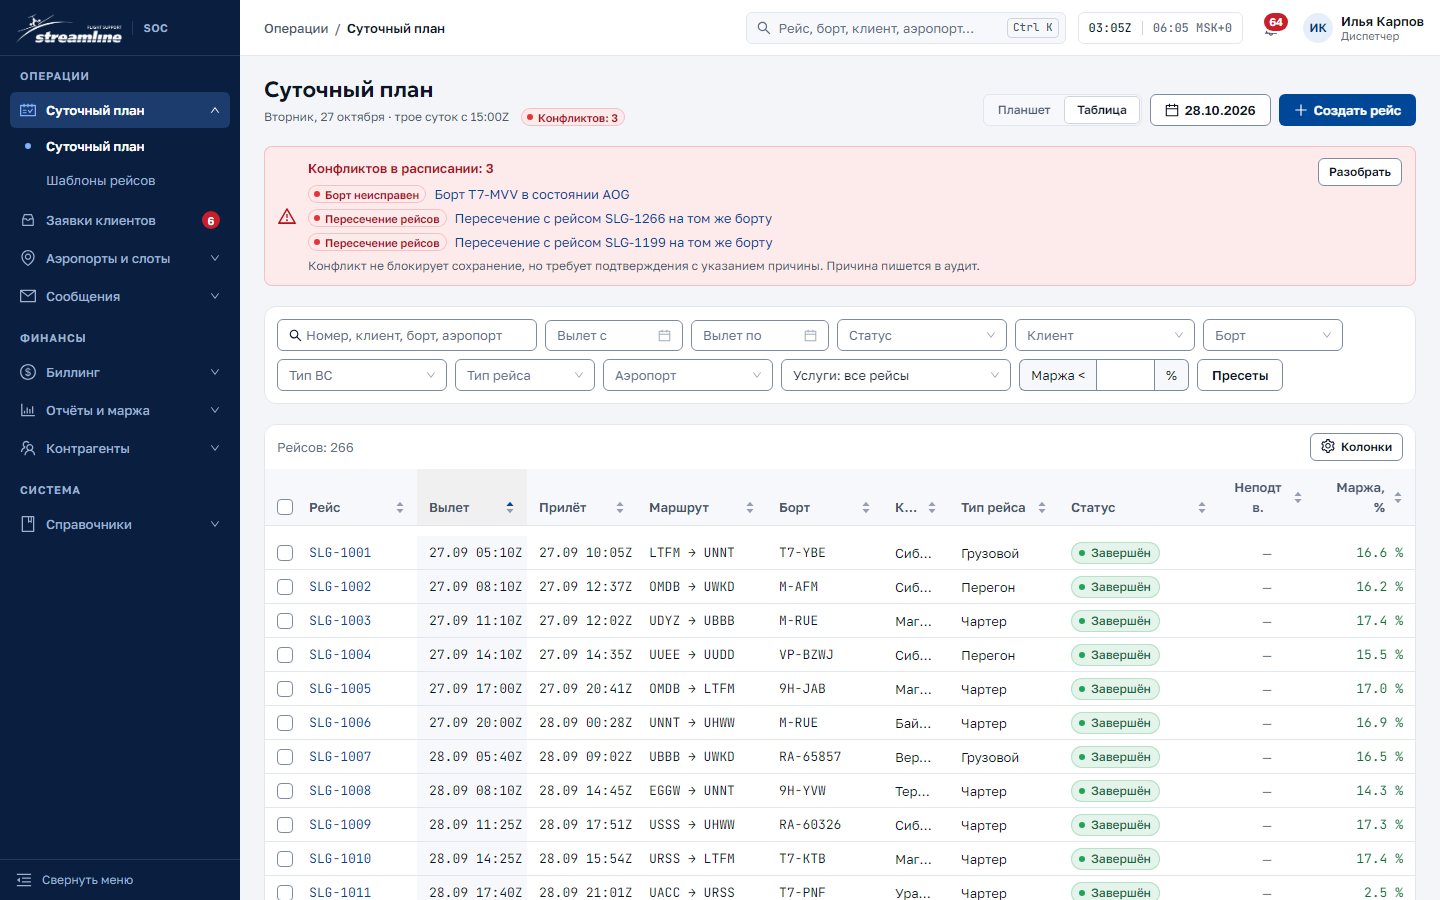
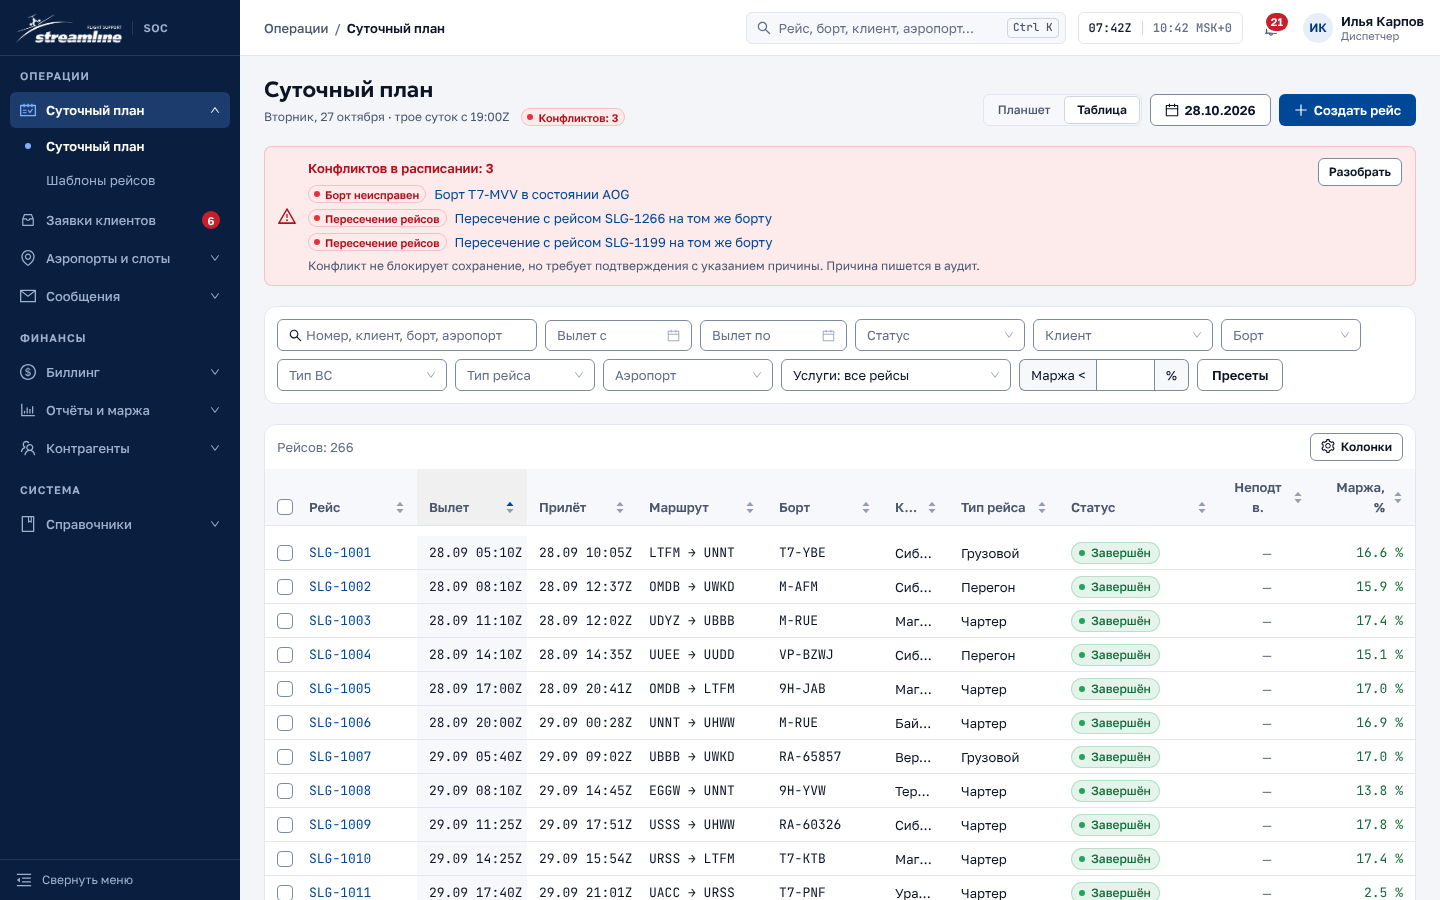
docs(manuals): актуализация руководства пользователя и инструкции по установке
Руководство пользователя сверено с экранами, меню и правами ролей:
убраны обещания, которых система не выполняет (пересчёт платежа в другой
валюте, выгрузка котировки в файлы), уточнены часы в шапке, причины AOG,
адресаты напоминаний о договорах, путь к аэропортам и сверке; добавлены
самостоятельная регистрация, задание пароля новой учётной записи,
оговорка о каскаде очистки набора, подключения TRACK и WX.

Инструкция по установке прямо говорит, что установка наполняется
вымышленными данными генератора, и описывает переход к установке
без них (SAMPLE_DATA=false) — порядок проверен на копии базы стенда.

Снимки экранов пересняты e2e/manuals.spec.ts с установки на наборе
генератора (7 из 7). Снимок подключений оставлен с установки на
2a9e44f: на стенде перепроверки www.cbr.ru недоступен, его снимок —
artifacts/screenshots/m11/.

diff --git a/docs/manuals/install-guide.md b/docs/manuals/install-guide.md
@@ -14,6 +14,10 @@ lang: ru
 | `Руководство пользователя.pdf` | работа в системе по ролям и экранам |
 | `Инструкция по установке.pdf` | этот документ |
 
+**Эта поставка — демонстрационная версия: при установке база наполняется
+вымышленными данными встроенного генератора.** Как получить установку без
+них — раздел «Установка без демонстрационных данных».
+
 Система разворачивается на сервере с Docker одной командой. Все её части
 (сервер приложения, база данных, фоновые задачи, веб-клиент, файловое
 хранилище) собираются и запускаются в контейнерах на этом сервере.
@@ -35,9 +39,10 @@ lang: ru
 - Данные строятся относительно даты установки: история за последние 30 дней
   и план на 14 дней вперёд. Система выглядит работающей «сегодня» в любой
   день установки.
-- Записи генератора помечены в базе и удаляются одной командой, не задевая
-  введённое людьми. Одну установку можно сначала показывать, а затем
-  очистить и начать работу.
+- Записи генератора помечены в базе и удаляются одной командой. Введённое
+  людьми остаётся, **кроме записей, привязанных к записям генератора**:
+  например, цена, которую человек добавил поставщику из набора, удаляется
+  вместе с этим поставщиком.
 
 ## Внешние подключения в этой установке
 
@@ -45,7 +50,7 @@ lang: ru
 |---|---|
 | Курсы валют Банка России | работает; серверу нужен доступ в интернет к `www.cbr.ru`. Если доступа нет, используются курсы Банка России, приложенные к поставке |
 | Исходящая почта | работает; письма уходят на почтовый сервер внутри установки и наружу не выходят — адреса контрагентов вымышлены |
-| 1С:Бухгалтерия, электронный документооборот, Active Directory, разбор входящей почты, корпоративный мессенджер | не подключены: подключения разрабатываются по мере получения доступов к системам заказчика. Система к ним не обращается и ничего за них не подставляет |
+| 1С:Бухгалтерия, электронный документооборот, Active Directory, разбор входящей почты, корпоративный мессенджер, данные о движении ВС, погода в аэропортах | не подключены: подключения разрабатываются по мере получения доступов к системам заказчика. Система к ним не обращается и ничего за них не подставляет |
 
 Мобильные приложения в поставку не входят. Веб-клиент работает в браузере
 телефона и планшета (от 360 пикселей по ширине) и устанавливается на
@@ -180,7 +185,7 @@ sudo sh deploy/sample/install.sh 203.0.113.10
 через неделю «вчерашние» рейсы окажутся недельной давности, а рейсы «на
 завтра» — в прошлом. Перед показом пересоздайте данные командой
 `reset-data.sh` — это занимает несколько минут. Введённое людьми при этом
-сохраняется.
+сохраняется, кроме записей, привязанных к записям генератора.
 
 ## Просмотр исходящей почты
 
@@ -206,6 +211,61 @@ ssh -L 8025:localhost:8025 пользователь@сервер
 ```bash
 sudo docker compose -f docker-compose.sample.yml up -d
 ```
+
+# Установка без демонстрационных данных
+
+Режим задаёт строка `SAMPLE_DATA` в файле `.env`. При `SAMPLE_DATA=false`
+генератор данных и управление модельным временем отключены: команда
+генератора отказывается работать, экрана «Генератор данных» нет, при запуске
+служб набор не создаётся. Вместе с ней меняют ещё две строки:
+
+| Строка | Демонстрация | Без демонстрационных данных |
+|---|---|---|
+| `SAMPLE_DATA` | `true` | `false` |
+| `LOGIN_ACCOUNT_LIST` — список учётных записей на экране входа | `true` | `false` |
+| `TWO_FACTOR_REQUIRED_ROLES` — кому обязателен второй фактор | пусто | `admin,finance` |
+
+Первую учётную запись администратора в этой поставке создаёт генератор.
+Поэтому установка без демонстрационных данных получается из
+демонстрационной — до того, как в неё начали вводить рабочие данные:
+
+1. Установите систему, как описано выше, и войдите под `volkova`.
+2. На экране «Пользователи» (адрес `/admin/users`) заведите учётные записи
+   администраторов и сотрудников с рабочими адресами почты. Учётные записи,
+   заведённые людьми, при очистке остаются. Пароль при заведении
+   не задаётся, а восстановления пароля по почте в системе пока нет:
+   пароль каждой новой учётной записи задаётся на сервере командой
+   (логин — адрес почты):
+
+   ```bash
+   sudo docker compose -f docker-compose.sample.yml exec api python manage.py changepassword <адрес почты>
+   ```
+3. Удалите демонстрационные данные:
+
+   ```bash
+   sudo docker compose -f docker-compose.sample.yml exec -T api python manage.py seed_sample --purge
+   ```
+
+   Удаляются записи генератора и его учётные записи, в том числе `volkova`.
+   Справочники (аэропорты, типы ВС, услуги, ставки НДС, шаблоны писем) и курсы
+   валют остаются: они не вымышлены. Журнал аудита не очищается — он только
+   пополняется; действия генератора в нём подписаны «Система (генератор
+   данных)».
+4. В `.env` задайте значения из правого столбца таблицы и перезапустите
+   службы:
+
+   ```bash
+   sudo docker compose -f docker-compose.sample.yml up -d
+   ```
+
+5. Войдите под учётной записью из шага 2. Администратору и финансисту
+   при первом входе будет предложено привязать приложение-аутентификатор.
+
+Развернуть установку сразу без демонстрационных данных эта поставка
+не позволяет: в пустой базе нет учётной записи, под которой можно войти.
+Порядок развёртывания рабочей установки (резервное копирование, HTTPS,
+подключения к системам заказчика) описывается в руководстве администратора,
+которое готовится к сдаче системы.
 
 # Безопасность
 
